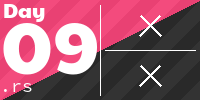
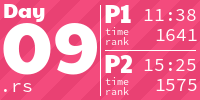
Finished day 9

diff --git a/tiles/.aoc_tiles_cache/leaderboard2023.html b/tiles/.aoc_tiles_cache/leaderboard2023.html
@@ -87,15 +87,16 @@ If you'd like to hang out, I'm @ericwastl@hachyderm.io on Mastodon and
 
 -->
 <body>
-<header><div><h1 class="title-global"><a href="/">Advent of Code</a></h1><nav><ul><li><a href="/2023/about">[About]</a></li><li><a href="/2023/events">[Events]</a></li><li><a href="https://teespring.com/stores/advent-of-code" target="_blank">[Shop]</a></li><li><a href="/2023/settings">[Settings]</a></li><li><a href="/2023/auth/logout">[Log Out]</a></li></ul></nav><div class="user">Rietty <span class="star-count">16*</span></div></div><div><h1 class="title-event">&nbsp;<span class="title-event-wrap">{&apos;year&apos;:</span><a href="/2023">2023</a><span class="title-event-wrap">}</span></h1><nav><ul><li><a href="/2023">[Calendar]</a></li><li><a href="/2023/support">[AoC++]</a></li><li><a href="/2023/sponsors">[Sponsors]</a></li><li><a href="/2023/leaderboard">[Leaderboard]</a></li><li><a href="/2023/stats">[Stats]</a></li></ul></nav></div></header>
+<header><div><h1 class="title-global"><a href="/">Advent of Code</a></h1><nav><ul><li><a href="/2023/about">[About]</a></li><li><a href="/2023/events">[Events]</a></li><li><a href="https://teespring.com/stores/advent-of-code" target="_blank">[Shop]</a></li><li><a href="/2023/settings">[Settings]</a></li><li><a href="/2023/auth/logout">[Log Out]</a></li></ul></nav><div class="user">Rietty <span class="star-count">18*</span></div></div><div><h1 class="title-event">&nbsp;&nbsp;&nbsp;<span class="title-event-wrap">$year=</span><a href="/2023">2023</a><span class="title-event-wrap">;</span></h1><nav><ul><li><a href="/2023">[Calendar]</a></li><li><a href="/2023/support">[AoC++]</a></li><li><a href="/2023/sponsors">[Sponsors]</a></li><li><a href="/2023/leaderboard">[Leaderboard]</a></li><li><a href="/2023/stats">[Stats]</a></li></ul></nav></div></header>
 
 <div id="sidebar">
-<div id="sponsor"><div class="quiet">Our <a href="/2023/sponsors">sponsors</a> help make Advent of Code possible:</div><div class="sponsor"><a href="https://www.smarty.com/advent-of-code" target="_blank" onclick="if(ga)ga('send','event','sponsor','sidebar',this.href);" rel="noopener">Smarty</a> - Join our private leaderboard and solve our puzzles for BIG PRIZES!!! ----------------- Address Validation and Autocomplete, and more!</div></div>
+<div id="sponsor"><div class="quiet">Our <a href="/2023/sponsors">sponsors</a> help make Advent of Code possible:</div><div class="sponsor"><a href="https://kotlinlang.org/" target="_blank" onclick="if(ga)ga('send','event','sponsor','sidebar',this.href);" rel="noopener">Kotlin by JetBrains</a> - Jingle bells, Kotlin pals, coding all the way! Solve puzzles, catch our daily livestreams for expert guidance, embrace the joy of Kotlin, and engage with a fantastic community. Happy holidays and happy coding!</div></div>
 </div><!--/sidebar-->
 
 <main>
 <article><p>These are your personal leaderboard times.  <em>Rank</em> is your position on that leaderboard: 1 means you were the first person to get that star, 2 means the second, 100 means the 100th, etc.  <em>Score</em> is the number of points you got for that rank: 100 for 1st, 99 for 2nd, ..., 1 for 100th, and 0 otherwise.</p><pre>      <span class="leaderboard-daydesc-first">--------Part 1--------</span>   <span class="leaderboard-daydesc-both">--------Part 2--------</span>
 Day   <span class="leaderboard-daydesc-first">    Time   Rank  Score</span>   <span class="leaderboard-daydesc-both">    Time   Rank  Score</span>
+  9   00:11:38   1641      0   00:15:25   1575      0
   8   00:19:19   5560      0   00:34:49   2197      0
   7   00:24:23   1521      0   00:52:15   2935      0
   6   10:08:24  46239      0   10:33:25  45715      0

diff --git a/src/solutions/day09.rs b/src/solutions/day09.rs
@@ -1,11 +1,53 @@
 // https://adventofcode.com/2023/day/09
 
-pub fn solve(_data: &[String]) -> (i32, i32) {
-    (0, 0)
+// Generate differences between elements of a vector
+pub fn differences(vec: &[i32]) -> Vec<i32> {
+    vec.windows(2).map(|w| w[1] - w[0]).collect()
 }
 
-pub fn parse(data: &[String]) -> Vec<String> {
-    data.iter().map(|s| s.to_string()).collect()
+pub fn extrapolate(data: Vec<i32>) -> i32 {
+    // Generate the chain of difference vectors
+    let mut chain = vec![data];
+    while chain
+        .last()
+        .unwrap()
+        .iter()
+        .all(|&x| x == chain.last().unwrap()[0])
+        == false
+    {
+        chain.push(differences(chain.last().unwrap()));
+    }
+
+    // Backtrack and extrapolate the chain
+    for i in (0..chain.len() - 1).rev() {
+        let last_element = chain[i].last().unwrap() + chain[i + 1].last().unwrap();
+        chain[i].push(last_element);
+    }
+
+    // Last element of first vector is the extrapolated value
+    *chain.first().unwrap().last().unwrap()
+}
+
+pub fn solve(data: &Vec<Vec<i32>>) -> (i32, i32) {
+    // Sum of all vectors called with extrapolate
+    let p1 = data.iter().map(|v| extrapolate(v.to_vec())).sum();
+    let p2 = data
+        .iter()
+        .map(|v| extrapolate(v.to_vec().into_iter().rev().collect()))
+        .sum();
+
+    (p1, p2)
+}
+
+pub fn parse(data: &[String]) -> Vec<Vec<i32>> {
+    // Read data into a vector of vectors of i32
+    data.iter()
+        .map(|line| {
+            line.split_whitespace()
+                .map(|num| num.parse::<i32>().unwrap())
+                .collect::<Vec<i32>>()
+        })
+        .collect::<Vec<Vec<i32>>>()
 }
 
 #[allow(dead_code)]
@@ -33,7 +75,7 @@ mod tests {
 
     #[test]
     fn part1() {
-        let expected = 0;
+        let expected = 114;
         let res = solve(&parse(&crate::library::read_file("testdata/day09.txt")));
         assert_eq!(res.0, expected);
         println!("Part 1: Expected: {}, Actual: {}", expected, res.0);
@@ -41,7 +83,7 @@ mod tests {
 
     #[test]
     fn part2() {
-        let expected = 0;
+        let expected = 2;
         let res = solve(&parse(&crate::library::read_file("testdata/day09.txt")));
         assert_eq!(res.1, expected);
         println!("Part 2: Expected: {}, Actual: {}", expected, res.1);
